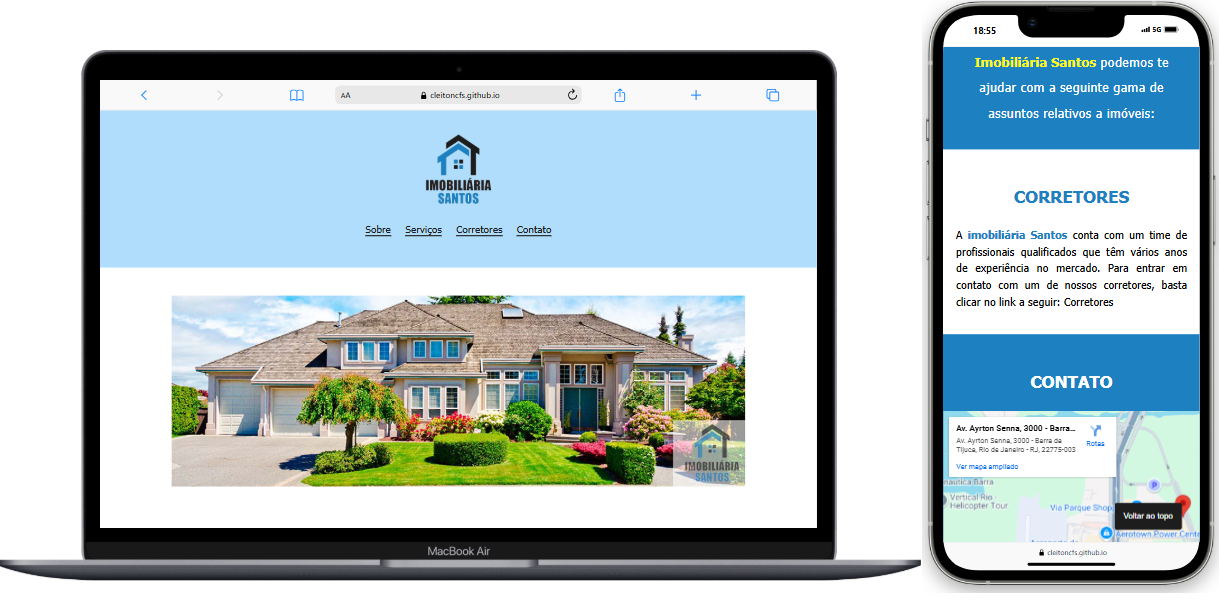
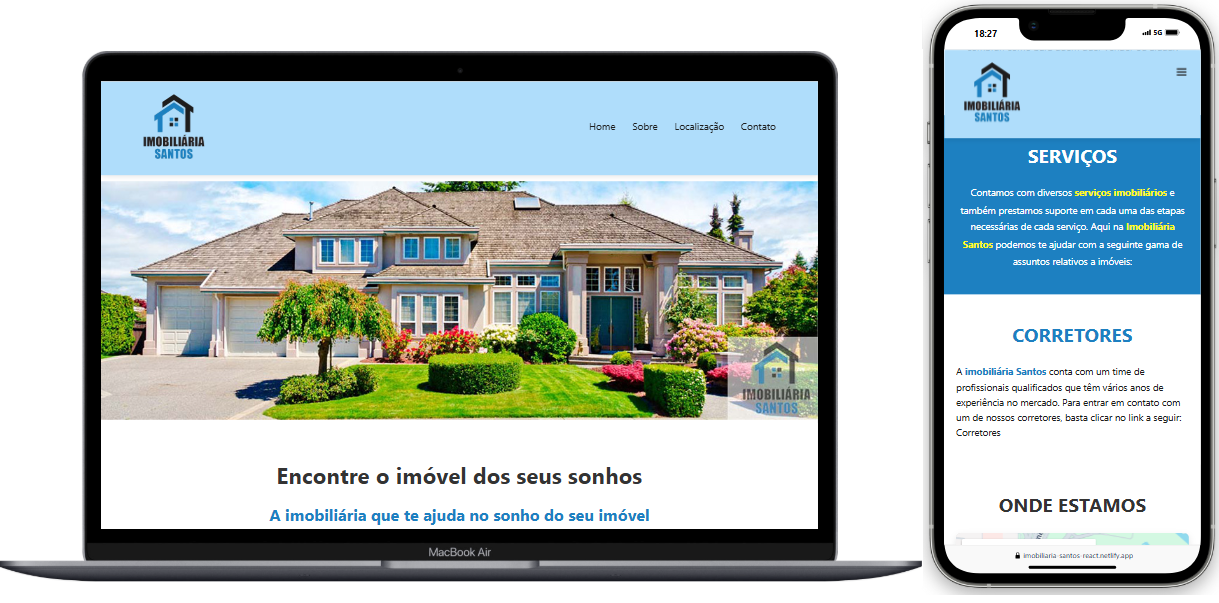
Update

diff --git a/index.html b/index.html
@@ -65,21 +65,6 @@
                         </a>
                     </div>
                     <div class="project">
-                        <h3>Organic Foods</h3>
-                        <span>Desenvolvido com Python/Flask</span>
-                        <a
-                            href="https://cleitoncfs.github.io/Organic/"
-                            target="_blank"
-                            download
-                        >
-                            <img
-                                src="img/img-projeto-Organic.png"
-                                alt="Projeto - Organic Foods"
-                            />
-                            <button>Ver</button>
-                        </a>
-                    </div>
-                    <div class="project">
                         <h3>Visite Paraty</h3>
                         <span>Desenvolvido com React</span>
                         <a
@@ -135,6 +120,21 @@
                             <img
                                 src="img/img-projeto-Blog-moderno.png"
                                 alt="Projeto - Blog Moderno"
+                            />
+                            <button>Ver</button>
+                        </a>
+                    </div>
+                    <div class="project">
+                        <h3>Imobiliária Santos</h3>
+                        <span>Desenvolvido com React</span>
+                        <a
+                            href="https://imobiliaria-santos-react.netlify.app/"
+                            target="_blank"
+                            download
+                        >
+                            <img
+                                src="img/img-projeto-Imobiliaria-Santos.png"
+                                alt="Projeto - Imobiliária Santos"
                             />
                             <button>Ver</button>
                         </a>
@@ -439,21 +439,6 @@
                             <img
                                 src="img/img-projeto-Pet-Boutique.png"
                                 alt="Projeto - Pousada Secreta"
-                            />
-                            <button>Ver</button>
-                        </a>
-                    </div>
-                    <div class="project">
-                        <h3>Imobiliária Santos</h3>
-                        <span>Desenvolvido com HTML e CSS</span>
-                        <a
-                            href="https://cleitoncfs.github.io/imobiliaria-santos/"
-                            target="_blank"
-                            download
-                        >
-                            <img
-                                src="img/img-projeto-Imobiliaria-Santos.png"
-                                alt="Projeto - Imobiliária Santos"
                             />
                             <button>Ver</button>
                         </a>
